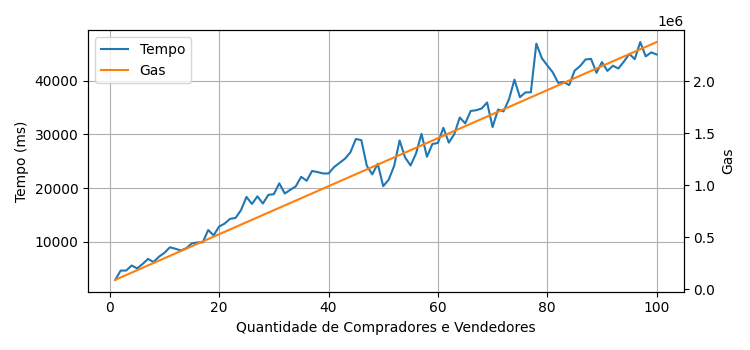
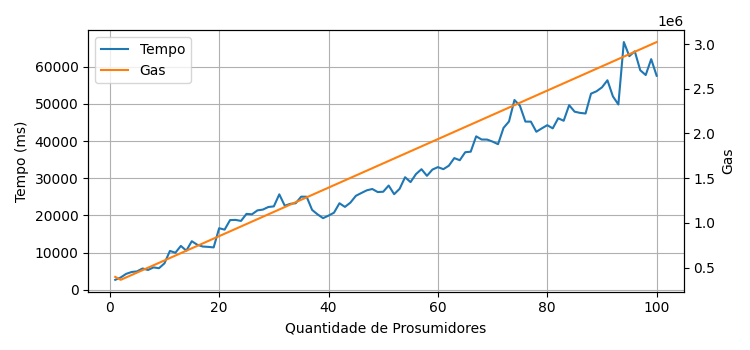
included the cost of register

diff --git a/test/location/testSetLocation.js b/test/location/testSetLocation.js
@@ -4,10 +4,14 @@ const fs = require('fs');
 contract('DoublePriceLocation -> Set Location', (accounts) => {
   for(let i=0;i<100;i++) {
     let aux = ''
+    let cost = 0;
     it(`should add ${i} bidder and offer`, async () => {
       const doublePriceAuctionInstance = await DoublePriceAuction.deployed();
-      await doublePriceAuctionInstance.registerBid(i+1, 1, {from: accounts[i]});
-      await doublePriceAuctionInstance.registerOffer(i+1, 1, {from: accounts[i]});
+      let tx;
+      tx = await doublePriceAuctionInstance.registerBid(i+1, 1, {from: accounts[i]});
+      cost += tx.receipt.gasUsed;
+      tx = await doublePriceAuctionInstance.registerOffer(i+1, 1, {from: accounts[i]});
+      cost += tx.receipt.gasUsed;
     });
     
     it(`should set location for ${i} bidder and offer`, async () => {
@@ -15,7 +19,8 @@ contract('DoublePriceLocation -> Set Location', (accounts) => {
       let spend = new Date();
       let tx = await doublePriceAuctionInstance.setLocation(-23163217000, -45794390000, {from: accounts[i]});
       let spend_time = new Date().getTime() - spend.getTime()
-      aux = (i+1).toString() + ';' + spend_time.toString() + ';' + tx.receipt.gasUsed.toString() + '\r\n';
+      cost += tx.receipt.gasUsed;
+      aux = (i+1).toString() + ';' + spend_time.toString() + ';' + cost.toString() + '\r\n';
       fs.appendFile('./results/location/setLocation.csv', aux, err => {
         if (err) {
           console.error(err)
